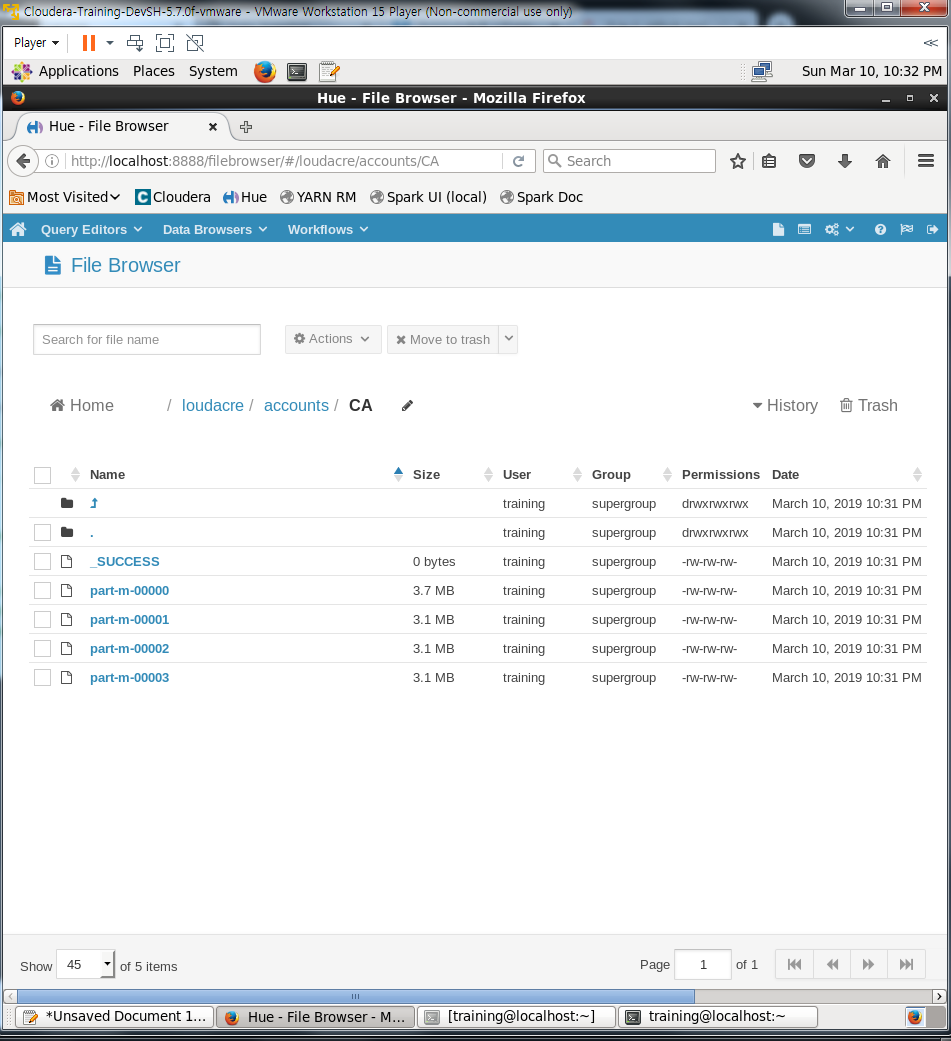
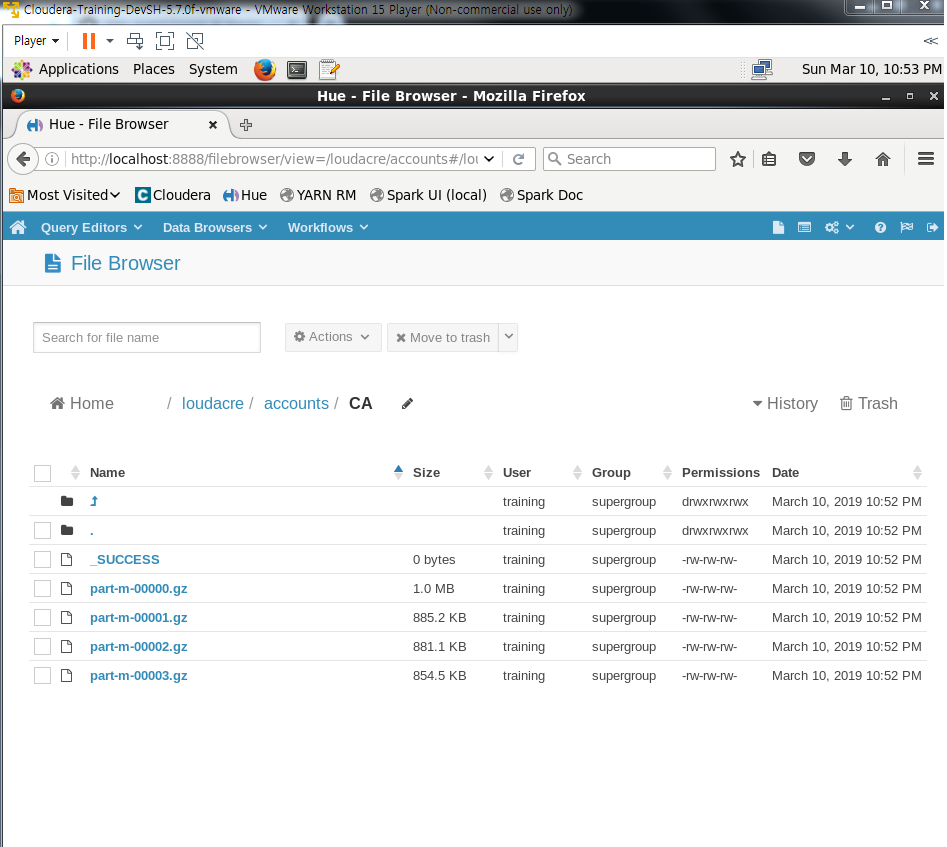
결과수정
결과수정

diff --git a/Sqoop/exercise03.md b/Sqoop/exercise03.md
@@ -3,50 +3,51 @@
 > --username training --password training \
 > --table accounts \
 > --target-dir /loudacre/accounts/CA \
-> --where " state='CA'"
-19/03/10 22:30:46 INFO sqoop.Sqoop: Running Sqoop version: 1.4.6-cdh5.7.0
-19/03/10 22:30:46 WARN tool.BaseSqoopTool: Setting your password on the command-line is insecure. Consider using -P instead.
-19/03/10 22:30:47 INFO manager.MySQLManager: Preparing to use a MySQL streaming resultset.
-19/03/10 22:30:47 INFO tool.CodeGenTool: Beginning code generation
-19/03/10 22:30:47 INFO manager.SqlManager: Executing SQL statement: SELECT t.* FROM `accounts` AS t LIMIT 1
-19/03/10 22:30:47 INFO manager.SqlManager: Executing SQL statement: SELECT t.* FROM `accounts` AS t LIMIT 1
-19/03/10 22:30:47 INFO orm.CompilationManager: HADOOP_MAPRED_HOME is /usr/lib/hadoop-mapreduce
-Note: /tmp/sqoop-training/compile/78d62f08c0e5f7961adc77575f9aaf5a/accounts.java uses or overrides a deprecated API.
+> --where " state='CA'" \
+> --compress
+19/03/10 22:51:55 INFO sqoop.Sqoop: Running Sqoop version: 1.4.6-cdh5.7.0
+19/03/10 22:51:55 WARN tool.BaseSqoopTool: Setting your password on the command-line is insecure. Consider using -P instead.
+19/03/10 22:51:55 INFO manager.MySQLManager: Preparing to use a MySQL streaming resultset.
+19/03/10 22:51:55 INFO tool.CodeGenTool: Beginning code generation
+19/03/10 22:51:56 INFO manager.SqlManager: Executing SQL statement: SELECT t.* FROM `accounts` AS t LIMIT 1
+19/03/10 22:51:56 INFO manager.SqlManager: Executing SQL statement: SELECT t.* FROM `accounts` AS t LIMIT 1
+19/03/10 22:51:56 INFO orm.CompilationManager: HADOOP_MAPRED_HOME is /usr/lib/hadoop-mapreduce
+Note: /tmp/sqoop-training/compile/987cb54e3d3e3fe6ff761c088eb2da1b/accounts.java uses or overrides a deprecated API.
 Note: Recompile with -Xlint:deprecation for details.
-19/03/10 22:30:50 INFO orm.CompilationManager: Writing jar file: /tmp/sqoop-training/compile/78d62f08c0e5f7961adc77575f9aaf5a/accounts.jar
-19/03/10 22:30:50 WARN manager.MySQLManager: It looks like you are importing from mysql.
-19/03/10 22:30:50 WARN manager.MySQLManager: This transfer can be faster! Use the --direct
-19/03/10 22:30:50 WARN manager.MySQLManager: option to exercise a MySQL-specific fast path.
-19/03/10 22:30:50 INFO manager.MySQLManager: Setting zero DATETIME behavior to convertToNull (mysql)
-19/03/10 22:30:50 INFO mapreduce.ImportJobBase: Beginning import of accounts
-19/03/10 22:30:50 INFO Configuration.deprecation: mapred.job.tracker is deprecated. Instead, use mapreduce.jobtracker.address
-19/03/10 22:30:50 INFO Configuration.deprecation: mapred.jar is deprecated. Instead, use mapreduce.job.jar
-19/03/10 22:30:51 INFO Configuration.deprecation: mapred.map.tasks is deprecated. Instead, use mapreduce.job.maps
-19/03/10 22:30:51 INFO client.RMProxy: Connecting to ResourceManager at /0.0.0.0:8032
-19/03/10 22:30:54 INFO db.DBInputFormat: Using read commited transaction isolation
-19/03/10 22:30:54 INFO db.DataDrivenDBInputFormat: BoundingValsQuery: SELECT MIN(`acct_num`), MAX(`acct_num`) FROM `accounts` WHERE (  state='CA' )
-19/03/10 22:30:54 INFO db.IntegerSplitter: Split size: 32439; Num splits: 4 from: 1 to: 129760
-19/03/10 22:30:54 INFO mapreduce.JobSubmitter: number of splits:4
-19/03/10 22:30:54 INFO mapreduce.JobSubmitter: Submitting tokens for job: job_1552275592774_0005
-19/03/10 22:30:55 INFO impl.YarnClientImpl: Submitted application application_1552275592774_0005
-19/03/10 22:30:55 INFO mapreduce.Job: The url to track the job: http://localhost:8088/proxy/application_1552275592774_0005/
-19/03/10 22:30:55 INFO mapreduce.Job: Running job: job_1552275592774_0005
-19/03/10 22:31:03 INFO mapreduce.Job: Job job_1552275592774_0005 running in uber mode : false
-19/03/10 22:31:03 INFO mapreduce.Job:  map 0% reduce 0%
-19/03/10 22:31:11 INFO mapreduce.Job:  map 25% reduce 0%
-19/03/10 22:31:17 INFO mapreduce.Job:  map 50% reduce 0%
-19/03/10 22:31:23 INFO mapreduce.Job:  map 75% reduce 0%
-19/03/10 22:31:30 INFO mapreduce.Job:  map 100% reduce 0%
-19/03/10 22:31:30 INFO mapreduce.Job: Job job_1552275592774_0005 completed successfully
-19/03/10 22:31:31 INFO mapreduce.Job: Counters: 30
+19/03/10 22:51:59 INFO orm.CompilationManager: Writing jar file: /tmp/sqoop-training/compile/987cb54e3d3e3fe6ff761c088eb2da1b/accounts.jar
+19/03/10 22:51:59 WARN manager.MySQLManager: It looks like you are importing from mysql.
+19/03/10 22:51:59 WARN manager.MySQLManager: This transfer can be faster! Use the --direct
+19/03/10 22:51:59 WARN manager.MySQLManager: option to exercise a MySQL-specific fast path.
+19/03/10 22:51:59 INFO manager.MySQLManager: Setting zero DATETIME behavior to convertToNull (mysql)
+19/03/10 22:51:59 INFO mapreduce.ImportJobBase: Beginning import of accounts
+19/03/10 22:51:59 INFO Configuration.deprecation: mapred.job.tracker is deprecated. Instead, use mapreduce.jobtracker.address
+19/03/10 22:51:59 INFO Configuration.deprecation: mapred.jar is deprecated. Instead, use mapreduce.job.jar
+19/03/10 22:52:00 INFO Configuration.deprecation: mapred.map.tasks is deprecated. Instead, use mapreduce.job.maps
+19/03/10 22:52:00 INFO client.RMProxy: Connecting to ResourceManager at /0.0.0.0:8032
+19/03/10 22:52:03 INFO db.DBInputFormat: Using read commited transaction isolation
+19/03/10 22:52:03 INFO db.DataDrivenDBInputFormat: BoundingValsQuery: SELECT MIN(`acct_num`), MAX(`acct_num`) FROM `accounts` WHERE (  state='CA' )
+19/03/10 22:52:03 INFO db.IntegerSplitter: Split size: 32439; Num splits: 4 from: 1 to: 129760
+19/03/10 22:52:03 INFO mapreduce.JobSubmitter: number of splits:4
+19/03/10 22:52:03 INFO mapreduce.JobSubmitter: Submitting tokens for job: job_1552275592774_0007
+19/03/10 22:52:04 INFO impl.YarnClientImpl: Submitted application application_1552275592774_0007
+19/03/10 22:52:04 INFO mapreduce.Job: The url to track the job: http://localhost:8088/proxy/application_1552275592774_0007/
+19/03/10 22:52:04 INFO mapreduce.Job: Running job: job_1552275592774_0007
+19/03/10 22:52:13 INFO mapreduce.Job: Job job_1552275592774_0007 running in uber mode : false
+19/03/10 22:52:13 INFO mapreduce.Job:  map 0% reduce 0%
+19/03/10 22:52:21 INFO mapreduce.Job:  map 25% reduce 0%
+19/03/10 22:52:28 INFO mapreduce.Job:  map 50% reduce 0%
+19/03/10 22:52:34 INFO mapreduce.Job:  map 75% reduce 0%
+19/03/10 22:52:41 INFO mapreduce.Job:  map 100% reduce 0%
+19/03/10 22:52:41 INFO mapreduce.Job: Job job_1552275592774_0007 completed successfully
+19/03/10 22:52:42 INFO mapreduce.Job: Counters: 30
 	File System Counters
 		FILE: Number of bytes read=0
-		FILE: Number of bytes written=561352
+		FILE: Number of bytes written=561308
 		FILE: Number of read operations=0
 		FILE: Number of large read operations=0
 		FILE: Number of write operations=0
 		HDFS: Number of bytes read=470
-		HDFS: Number of bytes written=13524081
+		HDFS: Number of bytes written=3771063
 		HDFS: Number of read operations=16
 		HDFS: Number of large read operations=0
 		HDFS: Number of write operations=8
@@ -55,9 +56,9 @@ Note: Recompile with -Xlint:deprecation for details.
 		Other local map tasks=4
 		Total time spent by all maps in occupied slots (ms)=0
 		Total time spent by all reduces in occupied slots (ms)=0
-		Total time spent by all map tasks (ms)=20268
-		Total vcore-seconds taken by all map tasks=20268
-		Total megabyte-seconds taken by all map tasks=5188608
+		Total time spent by all map tasks (ms)=20699
+		Total vcore-seconds taken by all map tasks=20699
+		Total megabyte-seconds taken by all map tasks=5298944
 	Map-Reduce Framework
 		Map input records=92416
 		Map output records=92416
@@ -65,15 +66,15 @@ Note: Recompile with -Xlint:deprecation for details.
 		Spilled Records=0
 		Failed Shuffles=0
 		Merged Map outputs=0
-		GC time elapsed (ms)=283
-		CPU time spent (ms)=6240
-		Physical memory (bytes) snapshot=538095616
-		Virtual memory (bytes) snapshot=8262397952
+		GC time elapsed (ms)=284
+		CPU time spent (ms)=6980
+		Physical memory (bytes) snapshot=550457344
+		Virtual memory (bytes) snapshot=8271118336
 		Total committed heap usage (bytes)=251920384
 	File Input Format Counters 
 		Bytes Read=0
 	File Output Format Counters 
-		Bytes Written=13524081
-19/03/10 22:31:31 INFO mapreduce.ImportJobBase: Transferred 12.8976 MB in 39.5388 seconds (334.0293 KB/sec)
-19/03/10 22:31:31 INFO mapreduce.ImportJobBase: Retrieved 92416 records.
-[training@localhost ~]$ --compress
+		Bytes Written=3771063
+19/03/10 22:52:42 INFO mapreduce.ImportJobBase: Transferred 3.5964 MB in 41.4154 seconds (88.9206 KB/sec)
+19/03/10 22:52:42 INFO mapreduce.ImportJobBase: Retrieved 92416 records.
+[training@localhost ~]$ 
